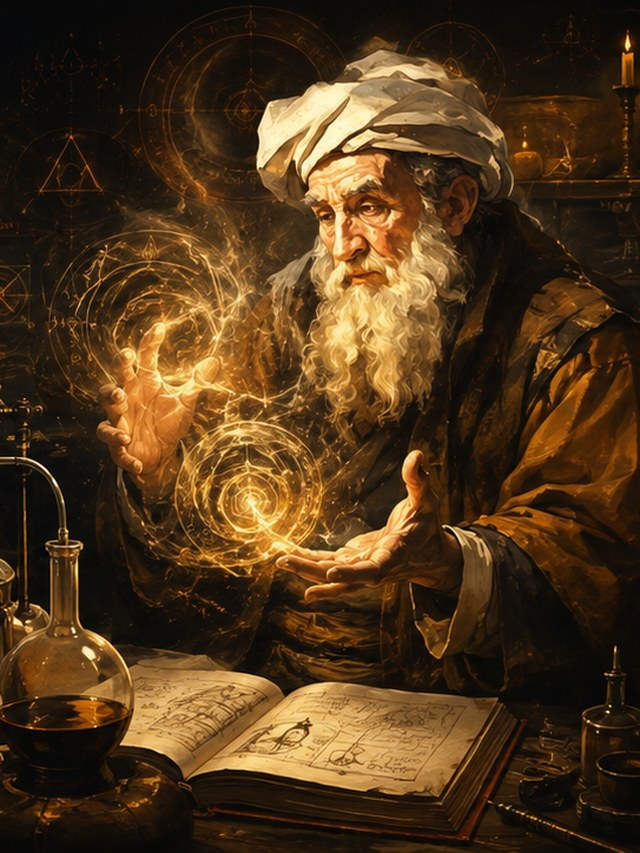
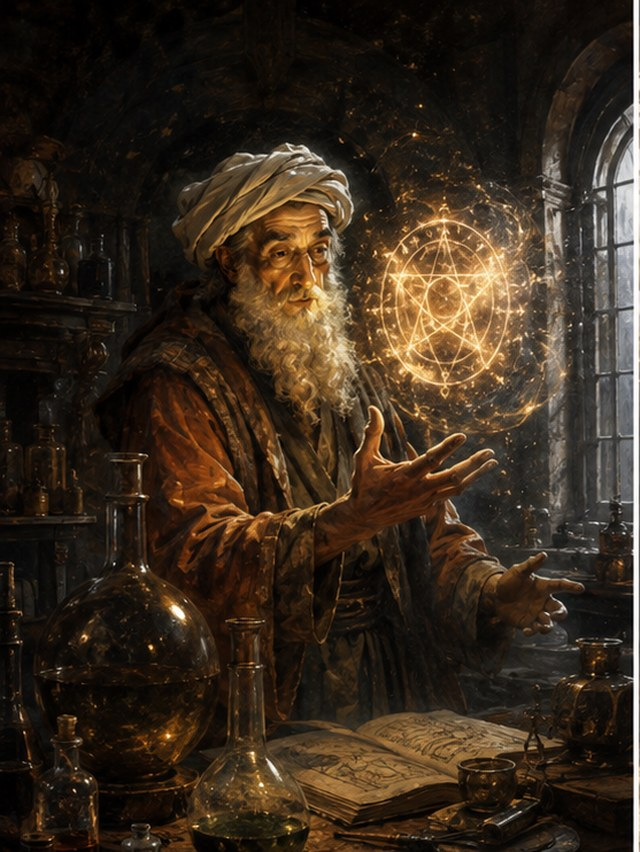
feat(identity): MZ monogram in the header circle; new Nachman triptych portraits
Claude-Session: https://claude.ai/code/session_01V6tNNtfCKs6FTzyCoGjSzQ

diff --git a/components/shell/AppHeader.tsx b/components/shell/AppHeader.tsx
@@ -5,7 +5,6 @@ import Link from "next/link";
 import { useActiveWarrior, useHydrated } from "@/lib/store";
 import { useT } from "@/lib/i18n/useT";
 import { UserText } from "@/components/ui";
-import { BrandMark } from "./NavIcons";
 import { PORTRAITS } from "@/components/warrior/portraits";
 
 /** Persistent top bar: MZ circle (→ "/") at the side, non-interactive active warrior centred. */
@@ -20,9 +19,11 @@ export function AppHeader() {
         <Link
           href="/"
           aria-label={t("app.short")}
-          className="grid h-8 w-8 shrink-0 place-items-center rounded-full border border-gold/50 bg-accent-3 text-gold-2 shadow-[0_0_14px_-4px_var(--gold)]"
+          className="grid h-8 w-8 shrink-0 place-items-center rounded-full border border-gold/50 bg-accent-3 shadow-[0_0_14px_-4px_var(--gold)]"
         >
-          <BrandMark className="h-[18px] w-[18px]" />
+          <span aria-hidden className="font-display text-gild text-[13px] font-semibold leading-none tracking-[-0.02em]">
+            MZ
+          </span>
         </Link>
 
         <div className="pointer-events-none absolute inset-x-0 mx-auto flex w-fit max-w-[60%] items-center gap-2 text-xs text-fg-muted">
